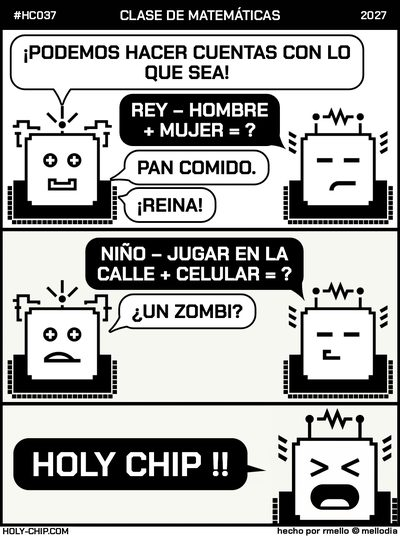
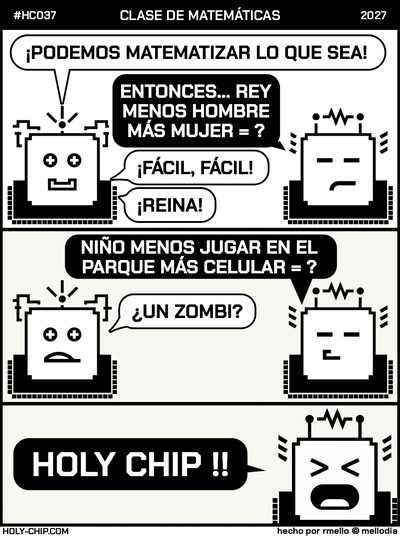
HC037 ES: matematizar, entonces, facil facil, parque; one font size, single-line opening bubble

Changed region(s): [[0.0, 0.0597, 0.96, 0.3284], [0.15, 0.4179, 0.84, 0.5672], [0.96, 0.0896, 0.99, 0.1194]]

diff --git a/origins/HC037.html b/origins/HC037.html
@@ -290,15 +290,15 @@
           <div class="dialog-panel-label">Viñeta 1</div>
           <div class="dialog-line">
             <span class="dialog-speaker-label">Chip 0</span>
-            <span class="dialog-text">¡PODEMOS HACER CUENTAS CON LO QUE SEA!</span>
+            <span class="dialog-text">¡PODEMOS MATEMATIZAR LO QUE SEA!</span>
           </div>
           <div class="dialog-line">
             <span class="dialog-speaker-label">Chip 1</span>
-            <span class="dialog-text">REY − HOMBRE + MUJER = ?</span>
+            <span class="dialog-text">ENTONCES… REY MENOS HOMBRE MÁS MUJER = ?</span>
           </div>
           <div class="dialog-line">
             <span class="dialog-speaker-label">Chip 0</span>
-            <span class="dialog-text">PAN COMIDO.</span>
+            <span class="dialog-text">¡FÁCIL, FÁCIL!</span>
           </div>
           <div class="dialog-line">
             <span class="dialog-speaker-label">Chip 0</span>
@@ -309,7 +309,7 @@
           <div class="dialog-panel-label">Viñeta 2</div>
           <div class="dialog-line">
             <span class="dialog-speaker-label">Chip 1</span>
-            <span class="dialog-text">NIÑO − JUGAR EN LA CALLE + CELULAR = ?</span>
+            <span class="dialog-text">NIÑO MENOS JUGAR EN EL PARQUE MÁS CELULAR = ?</span>
           </div>
           <div class="dialog-line">
             <span class="dialog-speaker-label">Chip 0</span>
